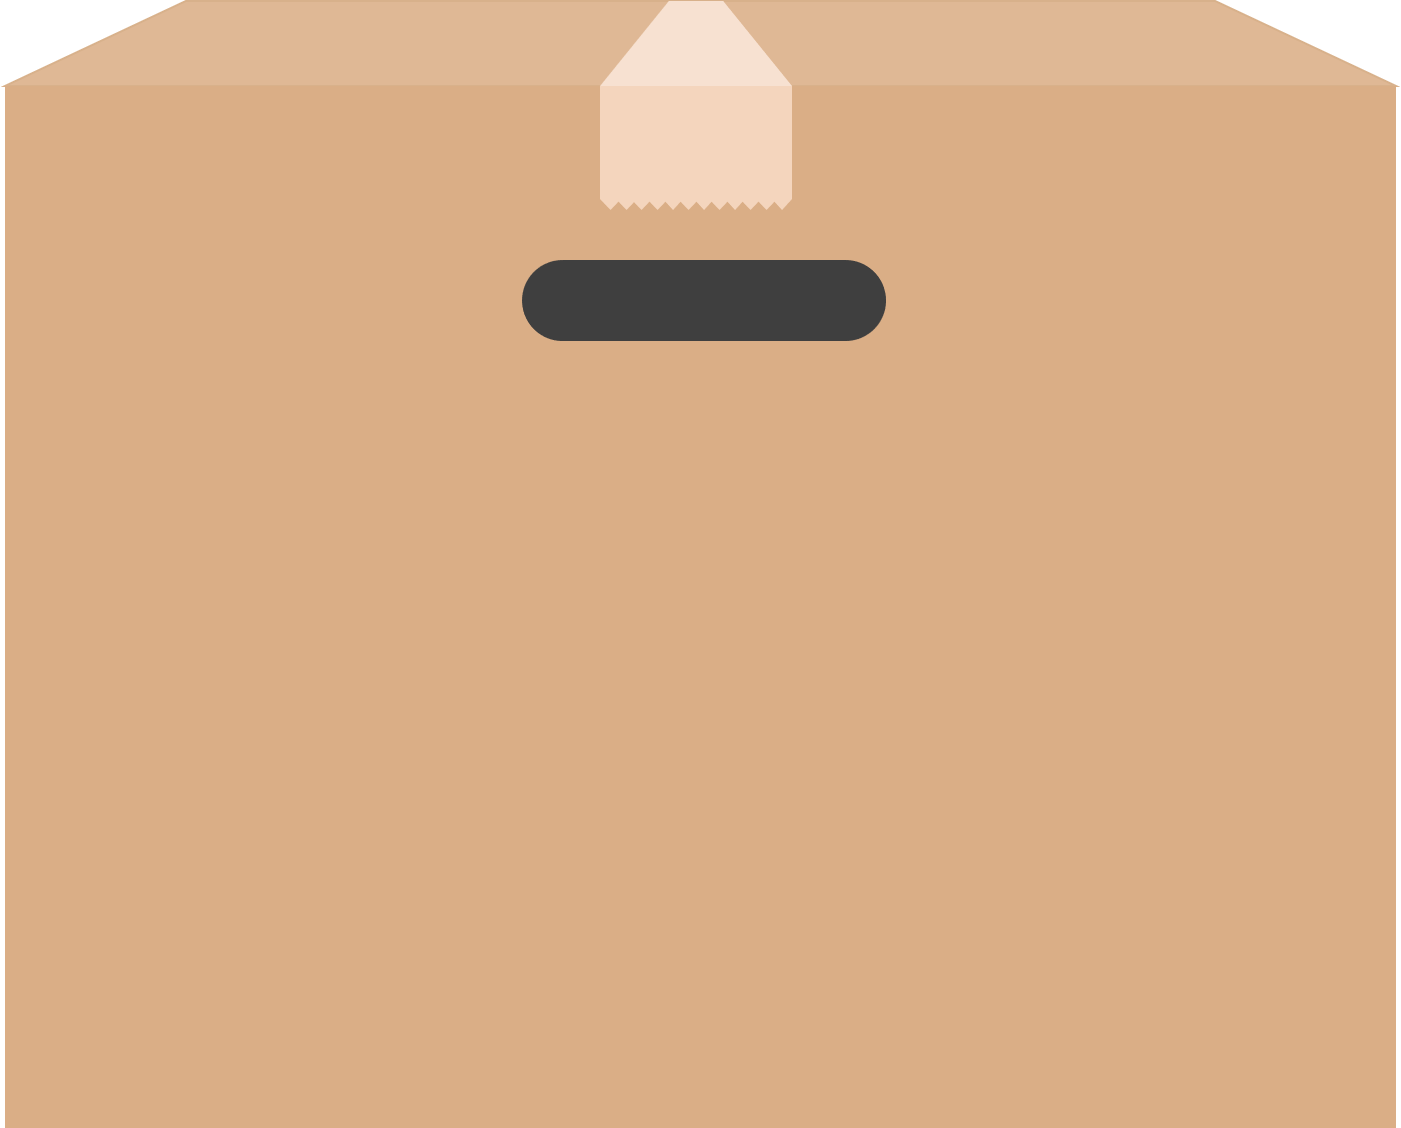
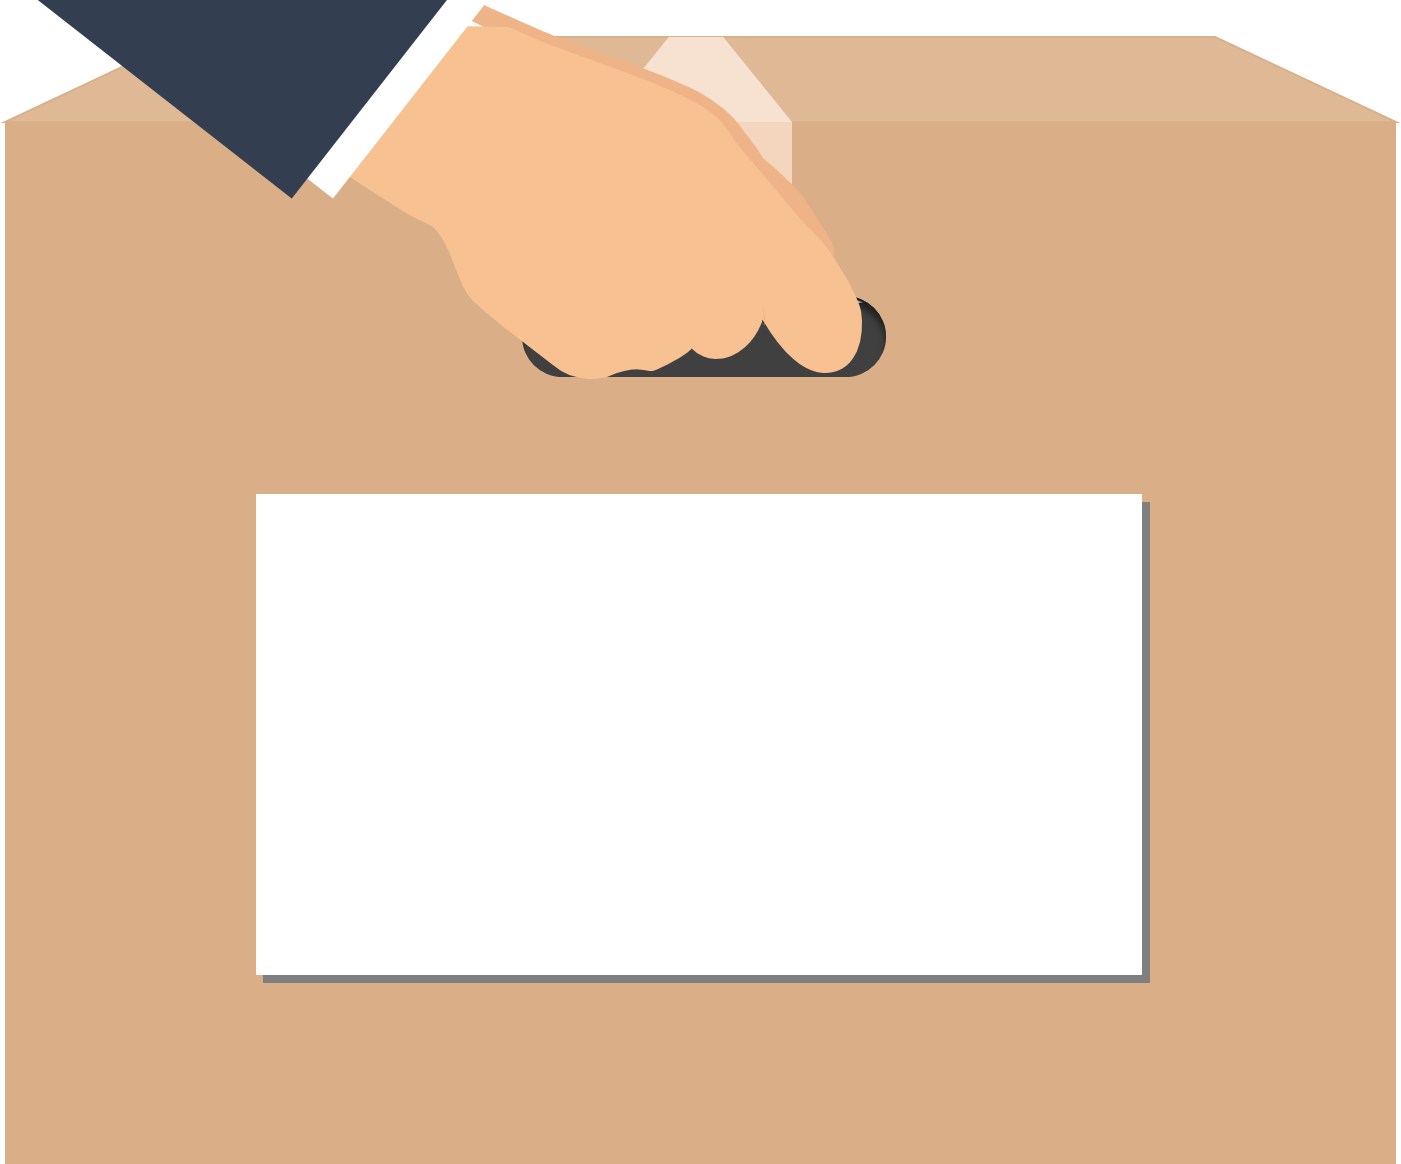
修改 - 登入介面

diff --git a/src/module/pages/sign.js b/src/module/pages/sign.js
@@ -16,14 +16,14 @@ class Base extends React.Component {
         return (<>
             <div className={ style.back }>
 
-                <Grid textAlign={ "center" } verticalAlign={ "middle" }> <Grid.Row  >
+                <Grid textAlign={ "center" } verticalAlign={ "middle" } > <Grid.Row  >
                     {/* <Grid.Column width={ 6 } xs={ 12 } className={ style.left }>
                     <h4>Welcome</h4>
                     <h6>__</h6>
                     { enough_height && <img src={  logo_light } alt="" /> }
                 </Grid.Column> */}
                     <Grid.Column floated={ "right" }> <a href="./#/"><img src={ home_icon } className={ style.homeKey } alt="" /></a></Grid.Column>
-                    <Grid.Column width={ 16 } className={ style.backC }>
+                    <Grid.Column width={ 16 } className={ style.backC } >
 
                         { this.props.content }
                     </Grid.Column>

diff --git a/src/css/sign.module.css b/src/css/sign.module.css
@@ -53,7 +53,7 @@ h4 {
 
 .homeKey {
     width: 5vw;
-    margin: 0px;
+    margin-right: 300px;
     float: right;
 }
 
@@ -87,13 +87,17 @@ h5 {
 }
 
 .back {
-    background: url("../imgs/login.png") !important;
+    background: url("../imgs/login.png") center !important;
     height: 100vh;
     width: 100vw;
-    background-size: cover !important;
+    background-size: 60% !important;
+    background-repeat: no-repeat !important; 
     padding-top: 15vh;
 }
 
 .backC {
-    padding-top: 5%;
+    padding-left: 5%;
+    /* 
+    width: 300px !important;
+    background: #ffffff !important; */
 }
